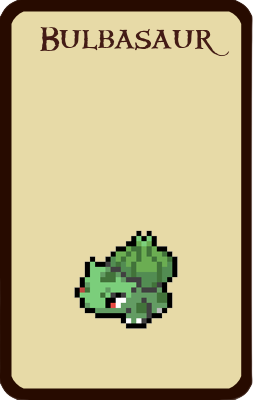
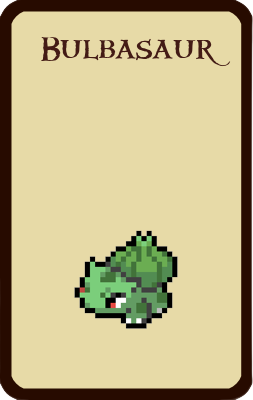
Added text module to support multiple text boxes

Changed region(s): [[0.166, 0.06, 0.913, 0.18]]

diff --git a/card.py b/card.py
@@ -1,4 +1,4 @@
-from PIL import Image, ImageDraw, ImageFont
+from PIL import Image, ImageDraw
 
 class Card():
     CARD_BACKGROUND_PATH = "resources\\cards\\"
@@ -9,15 +9,13 @@ class Card():
     SPRITE_SIZES = (350, 350)
 
     WHITE_COLOR = (255, 255, 255)
-    TITLE_COLOR = (67, 27, 21)
 
-    def __init__(self, card_background: str, card_title: str, title_font: str, text_font: str):
+    def __init__(self, card_background: str, card_title: str, texts: list):
         self._card_background_path = self.CARD_BACKGROUND_PATH + card_background + ".png"
         self._card_title = card_title
         self._card_sprite_path = self.SPRITES_PATH + self._card_title.lower() + ".png"
         self._output_path = self.OUTPUT_PATH + self._card_title.lower() + ".png"
-        self._title_font_path = self.FONTS_PATH + title_font + ".ttf"
-        self._text_font_path = self.FONTS_PATH + text_font + ".ttf"
+        self._texts = texts
 
     def create_card(self):
         card_background_image = Image.open(self._card_background_path)
@@ -30,14 +28,7 @@ class Card():
 
         card_draw_ctx = ImageDraw.Draw(card_background_image)
 
-        title_font_color = self.TITLE_COLOR
-        try:
-            title_font = ImageFont.truetype(self._title_font_path, 30)
-        except IOError:
-            title_font = ImageFont.load_default()
-        
-        text_width = card_draw_ctx.textlength(self._card_title, font=title_font)
-        text_pos = ((card_background_image.width - text_width) // 2, 30)
-        card_draw_ctx.text(text_pos, self._card_title, fill=title_font_color, font=title_font)
+        for text in self._texts:
+            text.add_text_to_image(card_draw_ctx, card_background_image.size)
 
         card_background_image.save(self._output_path)

diff --git a/text.py b/text.py
@@ -1,0 +1,24 @@
+from PIL import ImageFont
+
+class Text():
+    FONTS_PATH = "resources\\fonts\\"
+
+    def __init__(self, text: str, font: str, color: tuple, size: int, position_percent: tuple):
+        self._text = text
+        self._font_path = self.FONTS_PATH + font + ".ttf"
+        self._color = color
+        self._size = size
+        self._position_percent = position_percent
+
+    def add_text_to_image(self, draw_ctx, image_size: tuple):
+        # TODO: add text wrap
+        # TODO: add this module to images as well
+
+        try:
+            text_font = ImageFont.truetype(self._font_path, self._size)
+        except IOError:
+            text_font - ImageFont.load_default()
+        
+        text_width = draw_ctx.textlength(self._text, font=text_font)
+        text_position = ((image_size[0] - text_width) * self._position_percent[0], image_size[1] * self._position_percent[1])
+        draw_ctx.text(text_position, self._text, fill=self._color, font=text_font)

diff --git a/card_generator.py b/card_generator.py
@@ -1,11 +1,21 @@
 from card import Card
+from text import Text
+
+TITLE_COLOR = (67, 27, 21)
 
 def main():
+    title_text = Text(
+        text="Bulbasaur",
+        font="Quasimodo",
+        color=TITLE_COLOR,
+        size=30,
+        position_percent=(0.5, 0.1)
+    )
+
     munchkin_card = Card(
         card_background="munchkin",
         card_title="Bulbasaur",
-        title_font="Quasimodo",
-        text_font="Quasimodo"
+        texts=[title_text]
     )
 
     munchkin_card.create_card()
